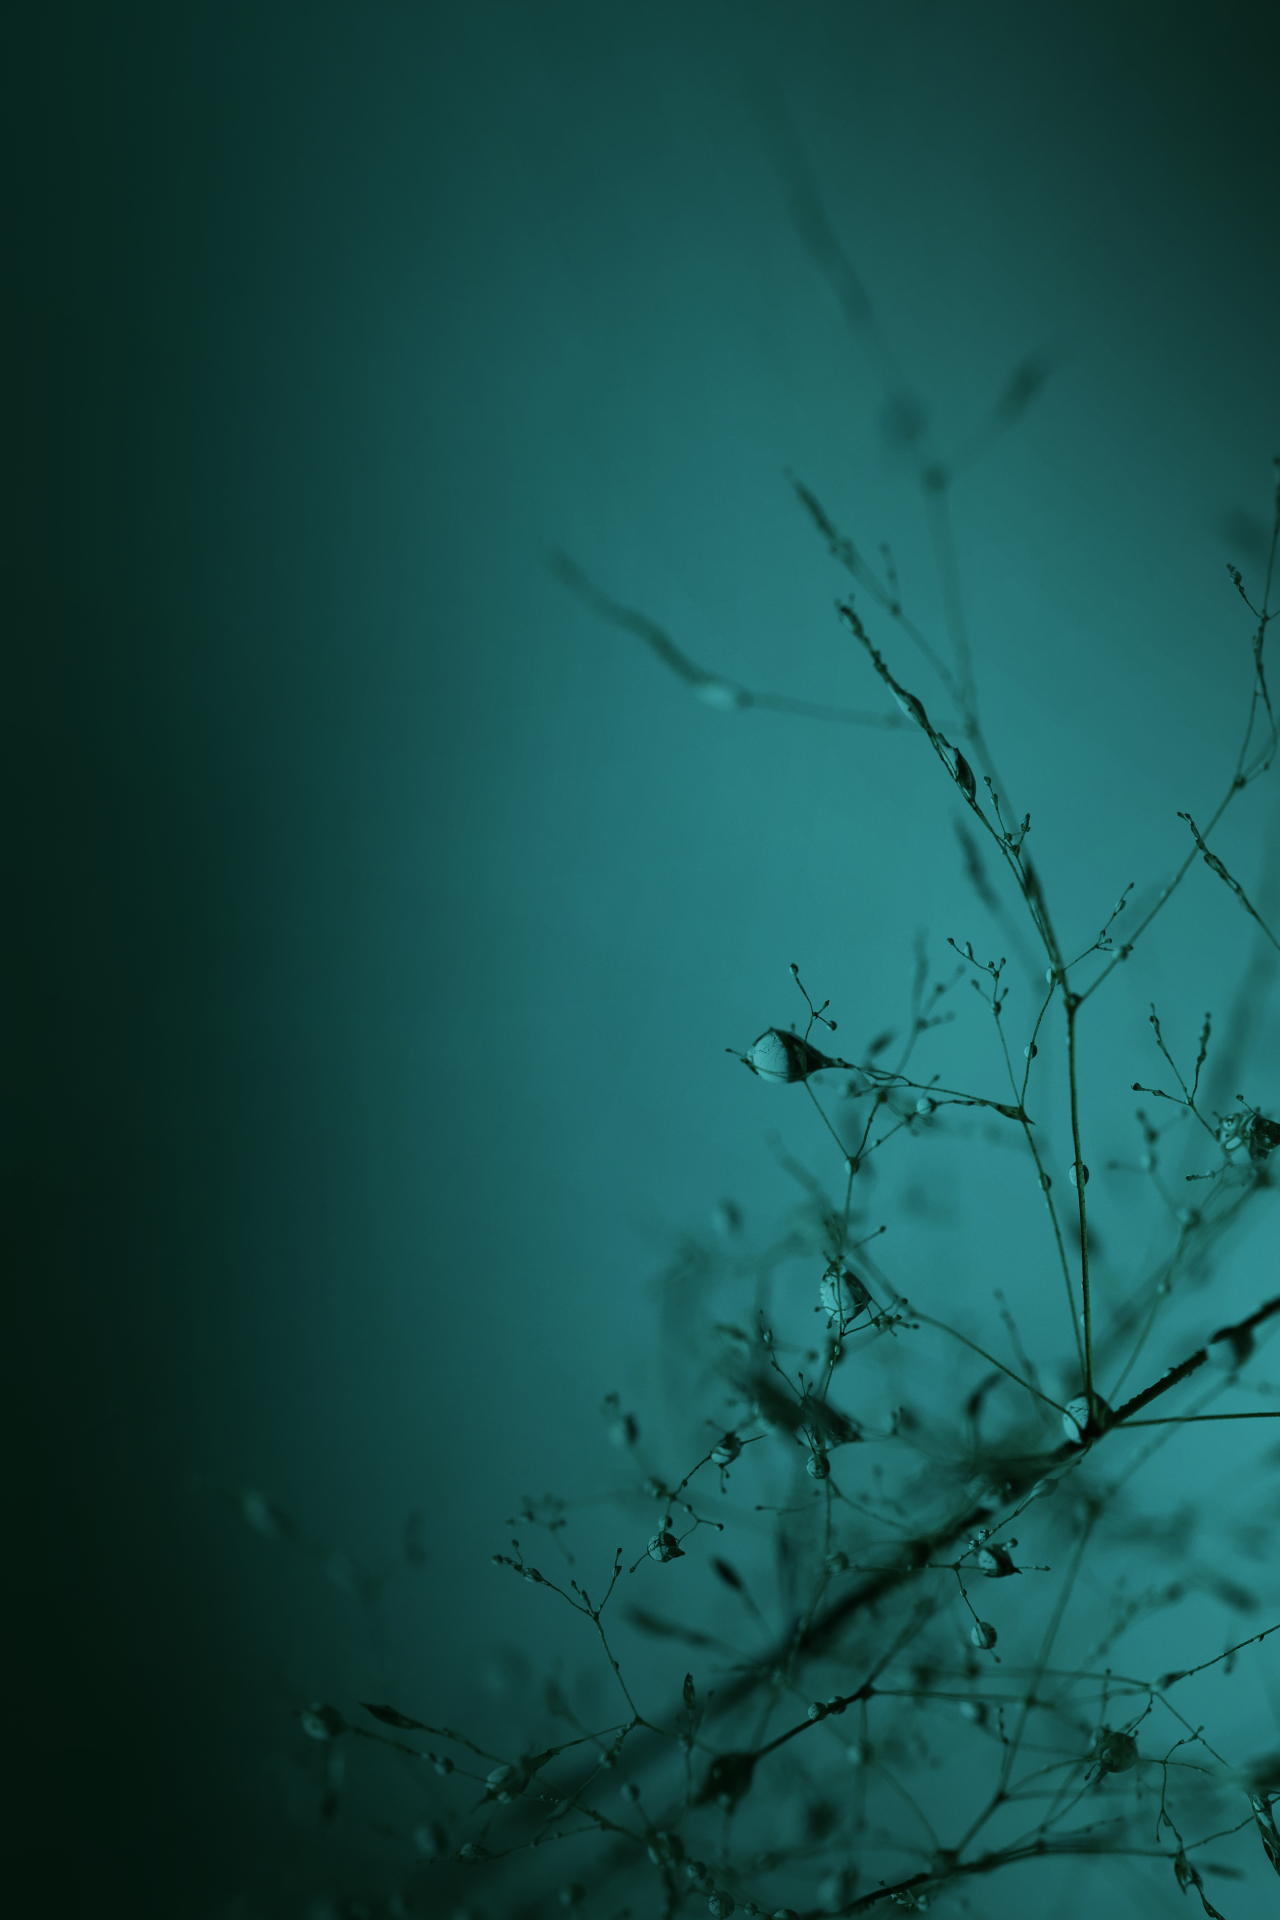
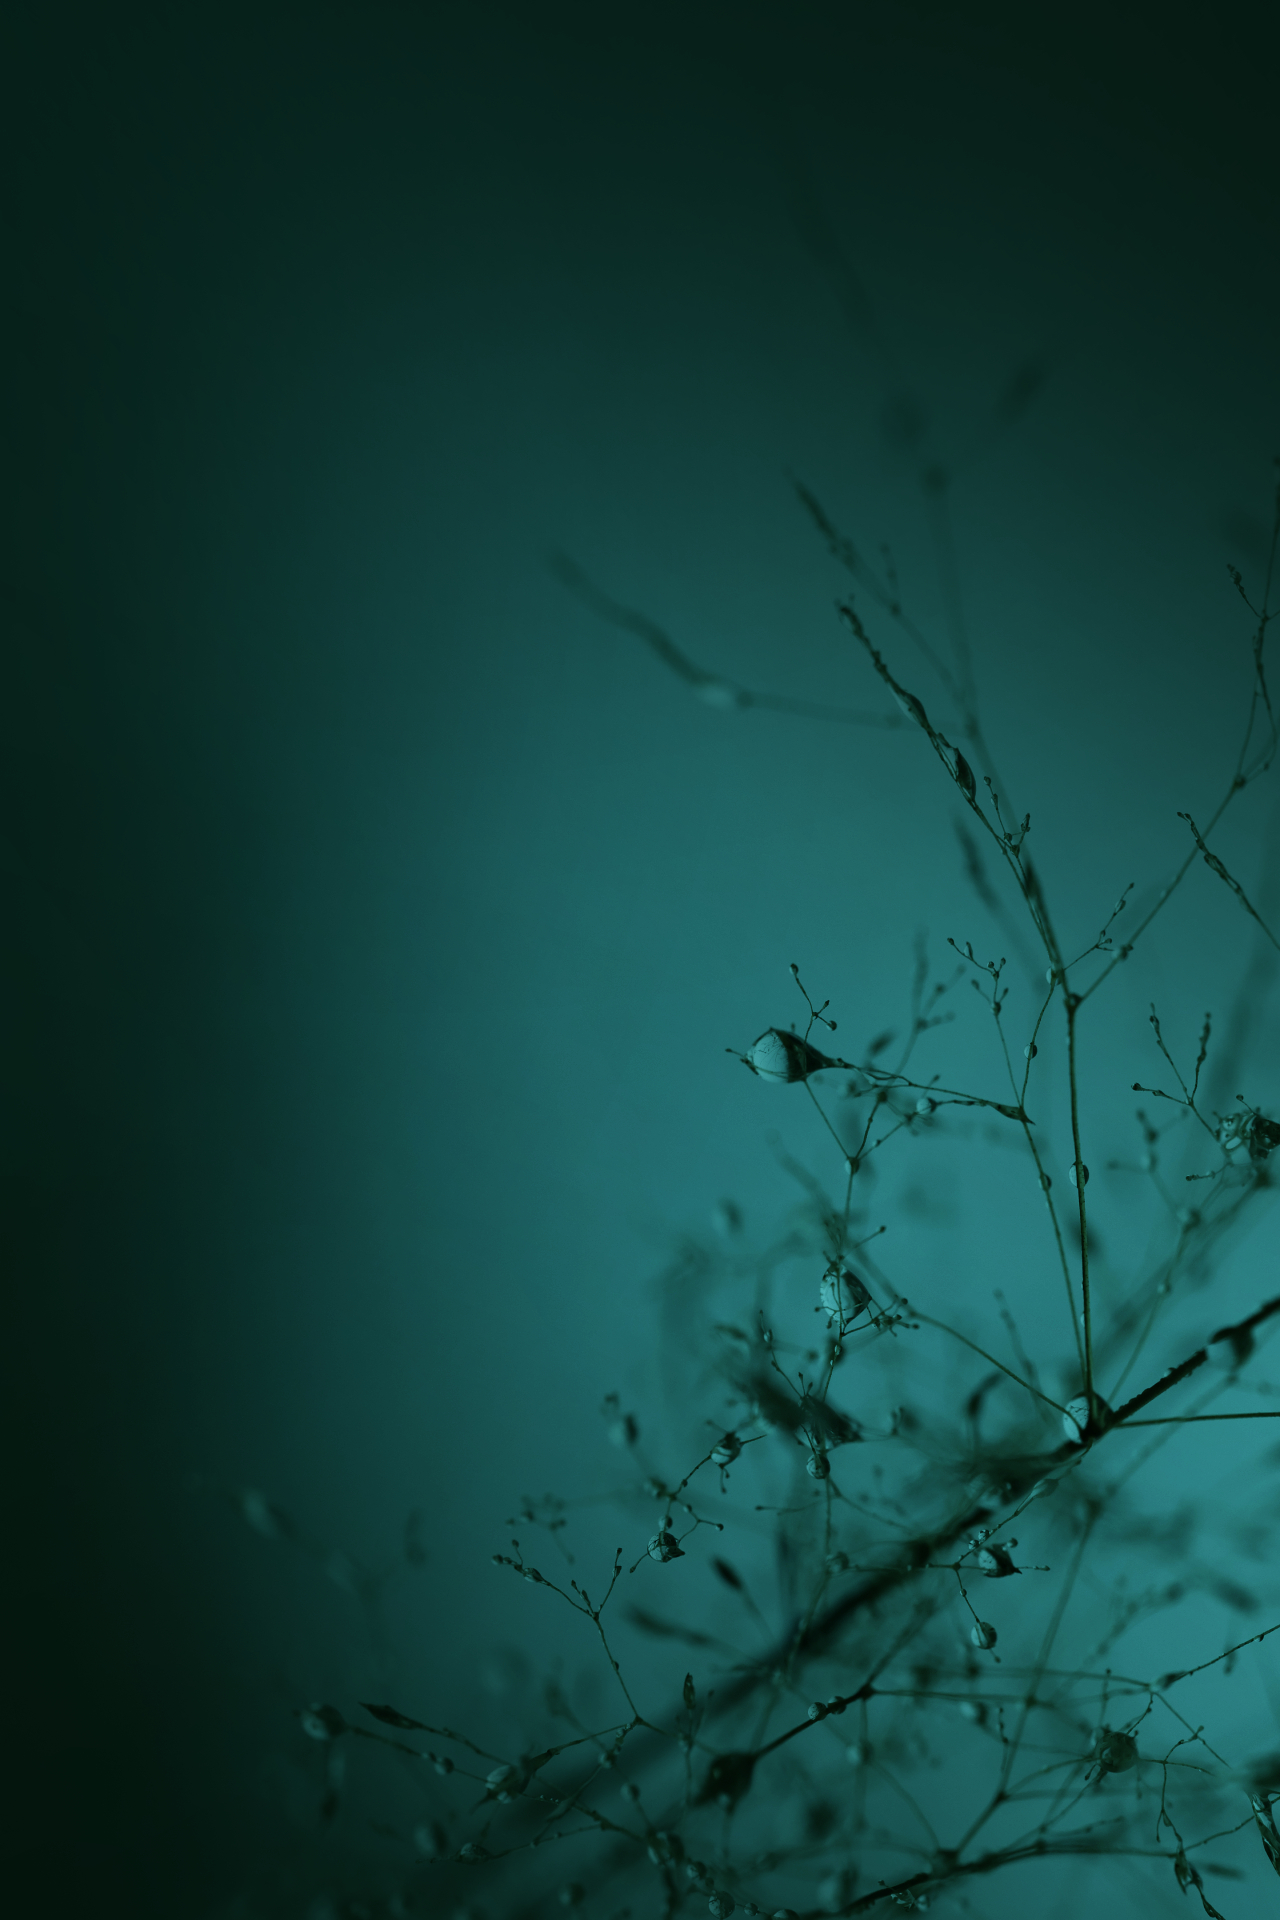
zmiana css zdjecie na index

Changed region(s): [[0.25, 0.0, 1.0, 0.5625]]

diff --git a/style.css b/style.css
@@ -153,7 +153,7 @@ a { color: var(--accent); text-decoration: none; }
 
 @media (max-width: 900px) {
   .hero {
-    background-image: url("img/makro-zdjecie-1-mobile.jpg"); /* ścieżka do zdjęcia */
+    background-image: url("img/zdjecie-kontakt.jpg"); /* ścieżka do zdjęcia */
     background-color: rgba(0,0,0,0.0);
 
     .hero-image {
@@ -163,7 +163,7 @@ a { color: var(--accent); text-decoration: none; }
 
   /*.hero-omnie,*/
   .hero-kontakt {
-    background-image: url("img/makro-zdjecie-1-mobile.jpg");
+    background-image: url("img/zdjecie-kontakt.jpg");
     background-color: rgba(0,0,0,0.0);
 
     .hero-image {
